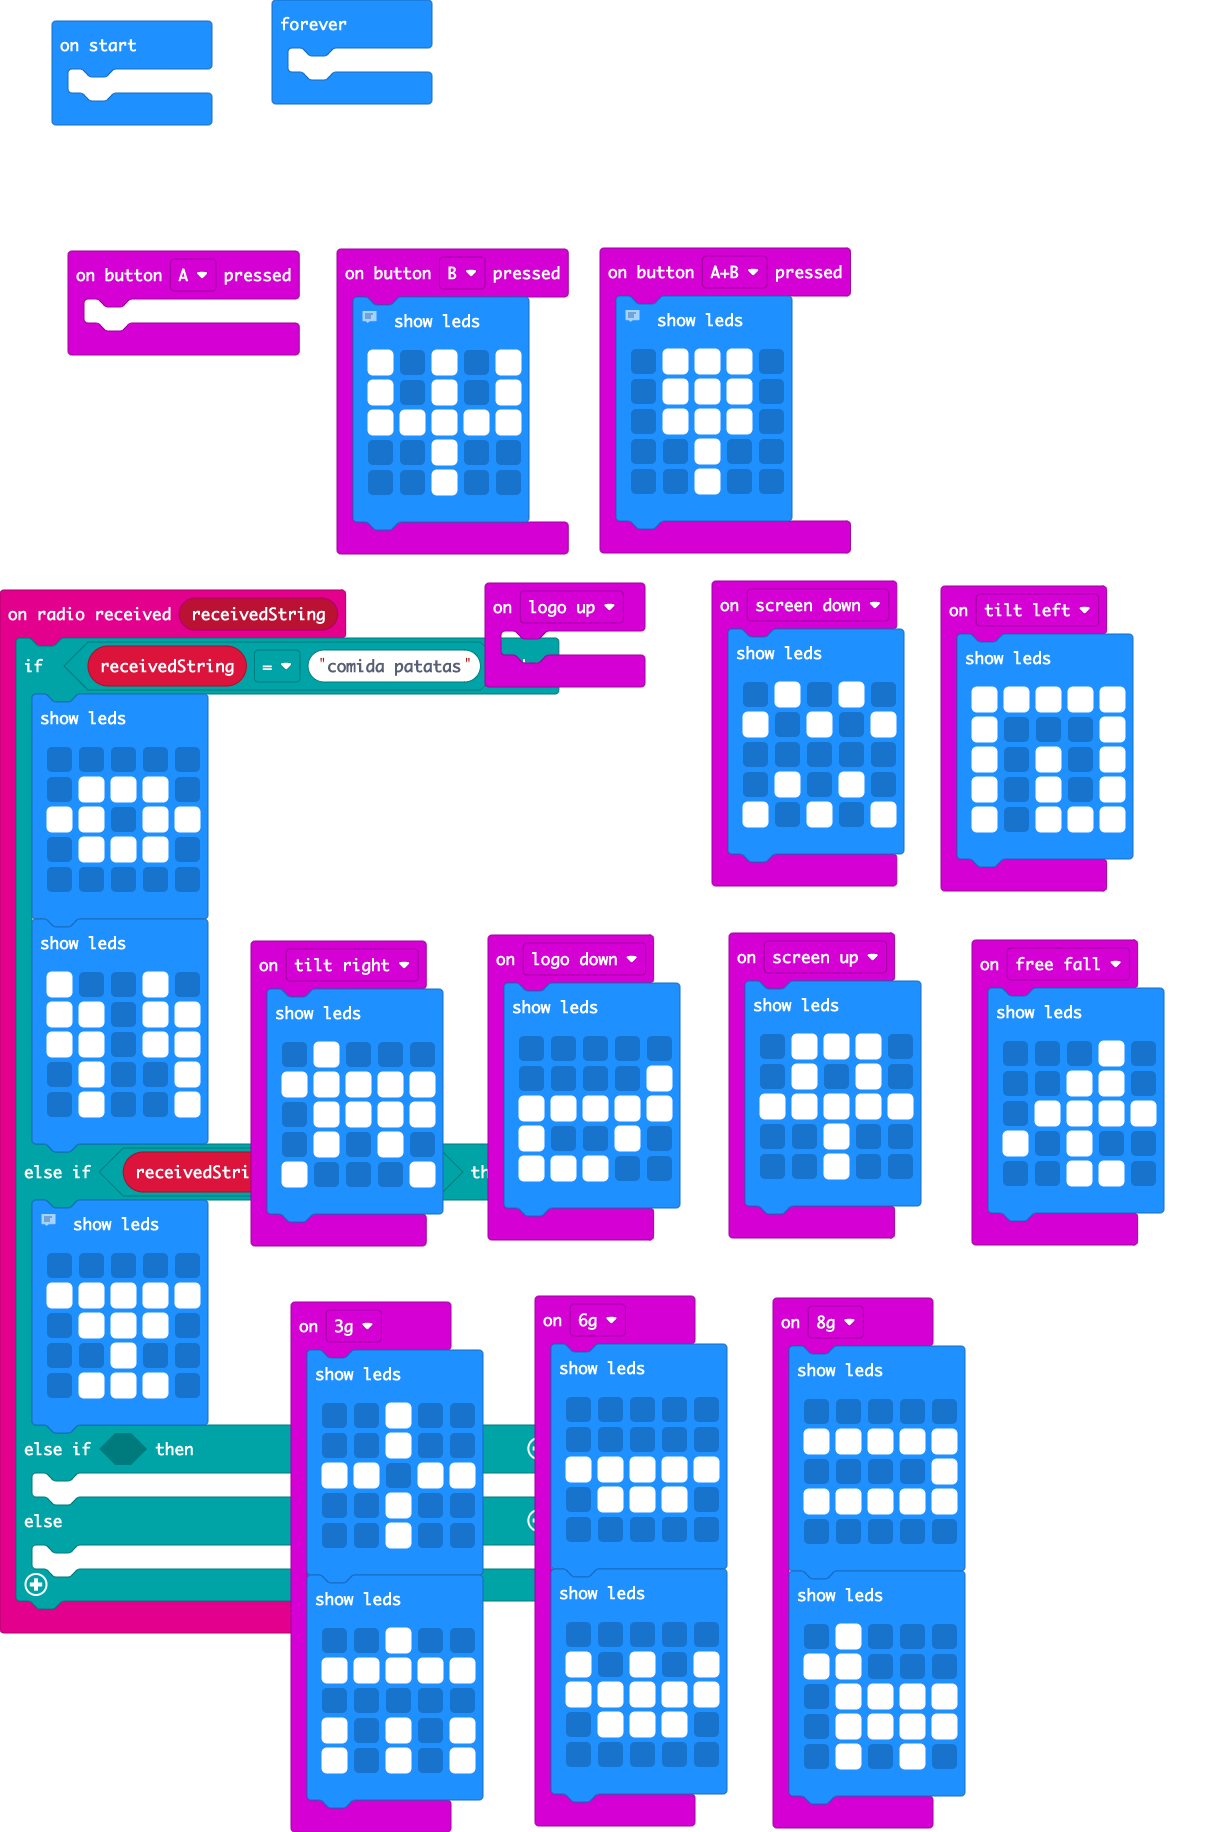
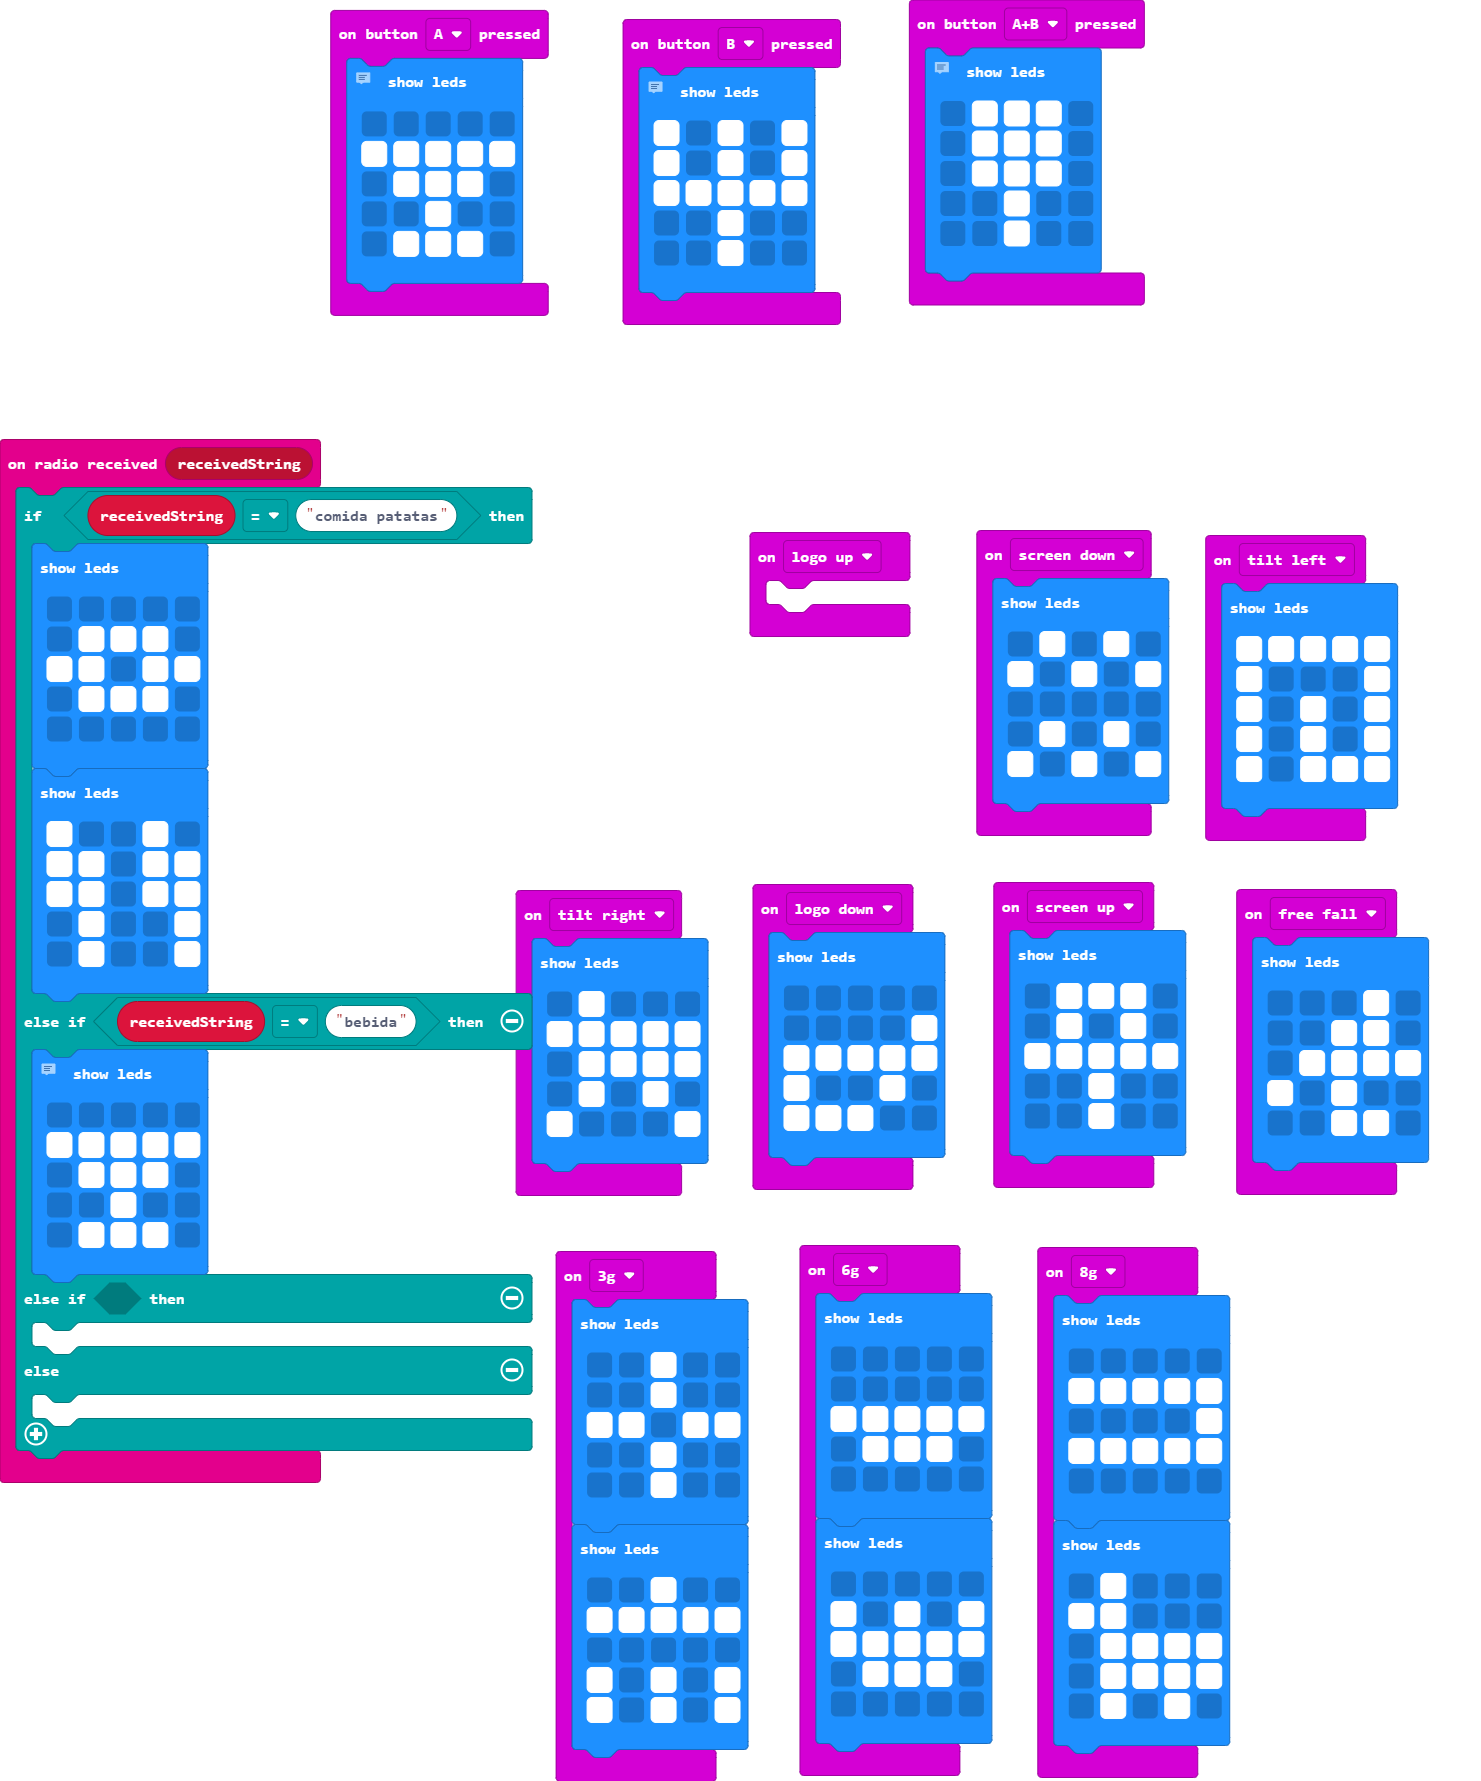
Update main.blocks, main.ts

diff --git a/main.ts b/main.ts
@@ -15,7 +15,14 @@ input.onGesture(Gesture.EightG, function () {
         `)
 })
 input.onButtonPressed(Button.A, function () {
-	
+    // beber
+    basic.showLeds(`
+        . . . . .
+        # # # # #
+        . # # # .
+        . . # . .
+        . # # # .
+        `)
 })
 input.onGesture(Gesture.FreeFall, function () {
     basic.showLeds(`
@@ -156,7 +163,4 @@ input.onGesture(Gesture.ThreeG, function () {
         # . # . #
         # . # . #
         `)
-})
-basic.forever(function () {
-	
 })
